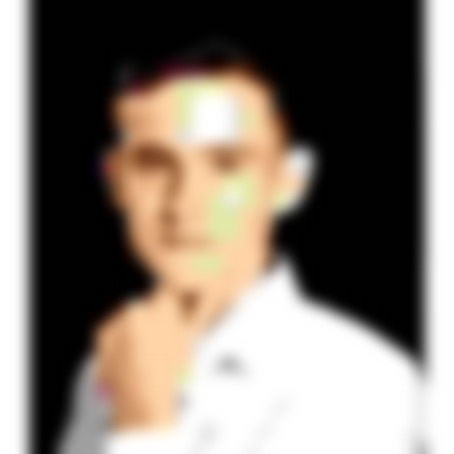
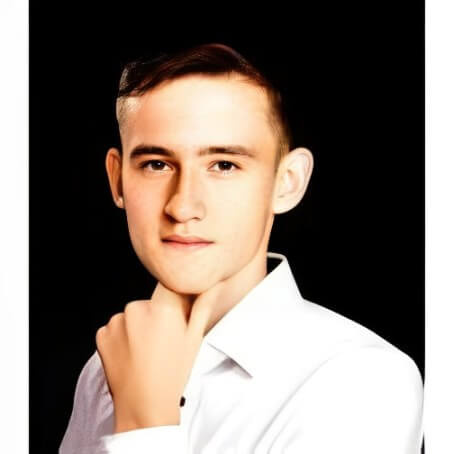
lazy-load css and images

diff --git a/src/css/style.css b/src/css/style.css
@@ -39,7 +39,9 @@ footer {
 #Myqatoolbox:hover {
   box-shadow: 0 12px 32px rgba(0, 0, 0, 0.18);
 }
-
+.lazy-img {
+  filter: blur(20px);
+}
 .toast-error {
   background-color: #f8d7da; 
   color: #842029;
